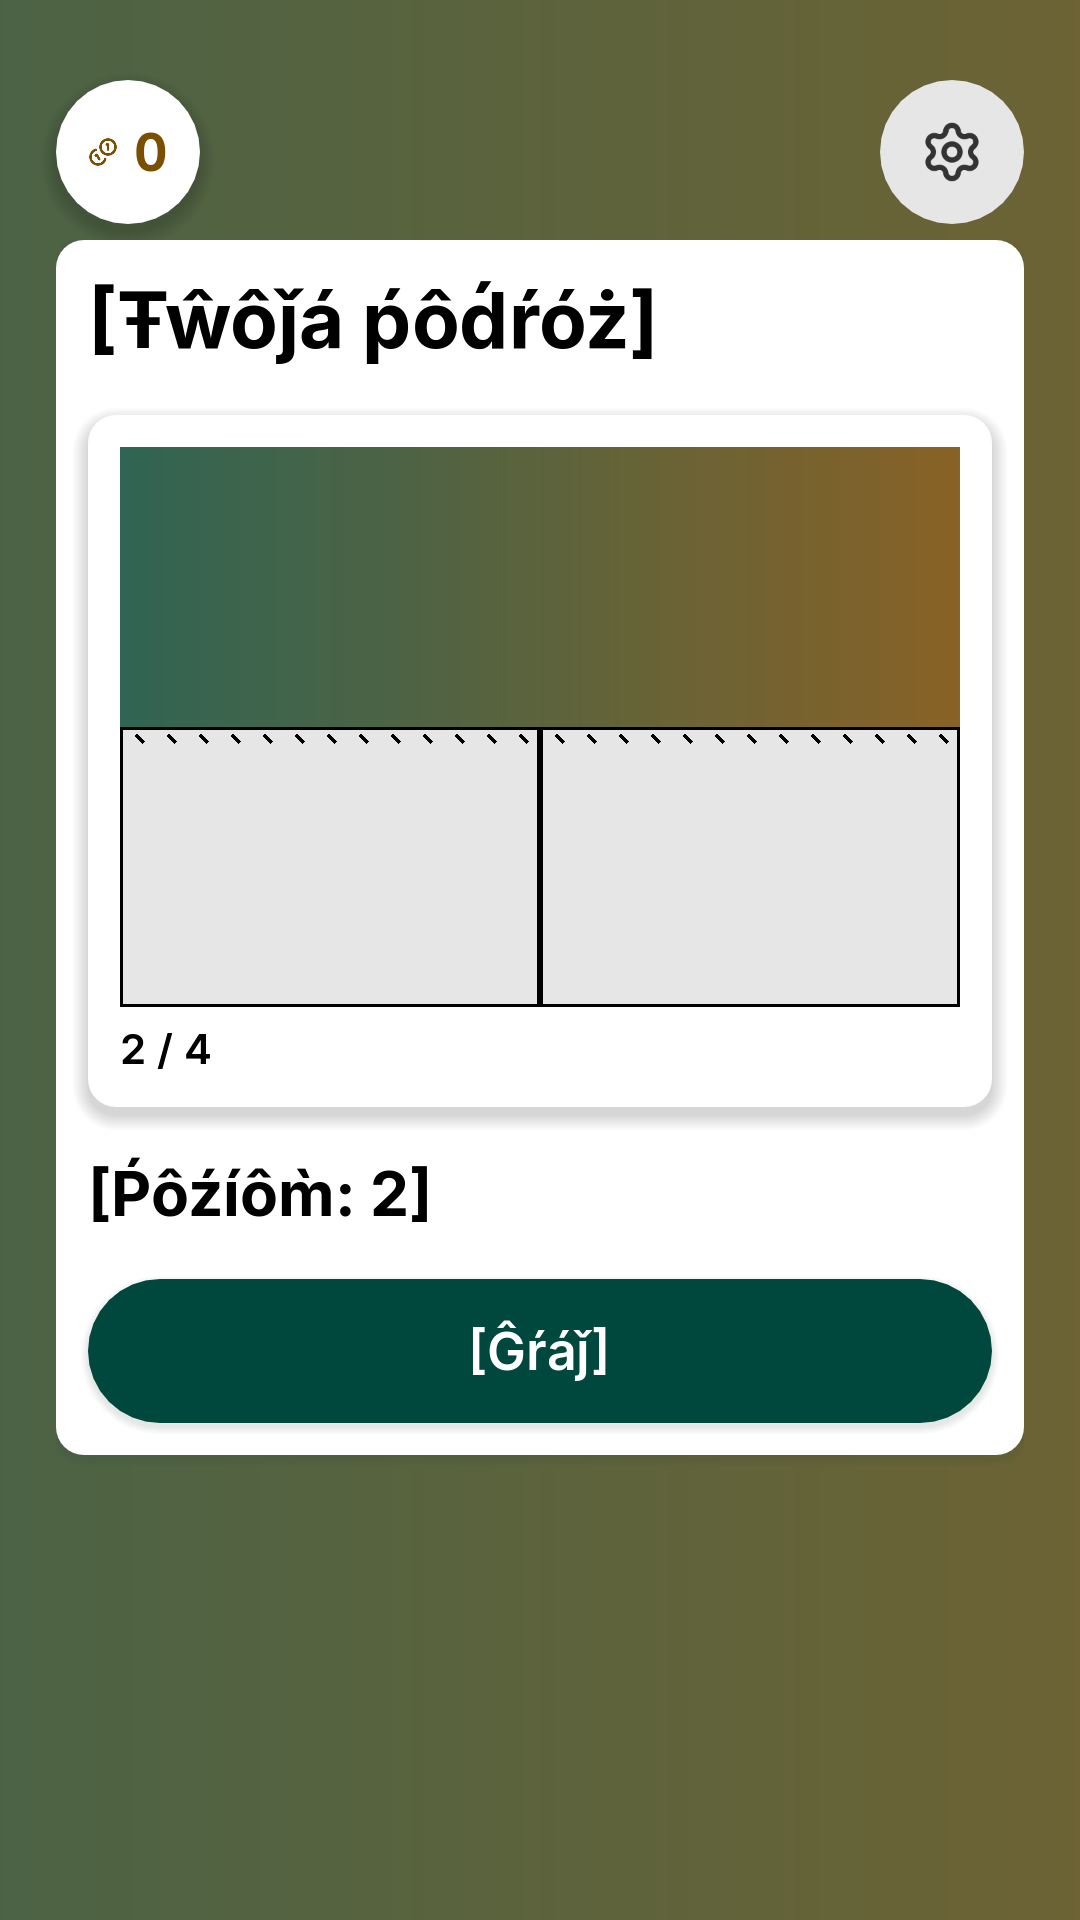
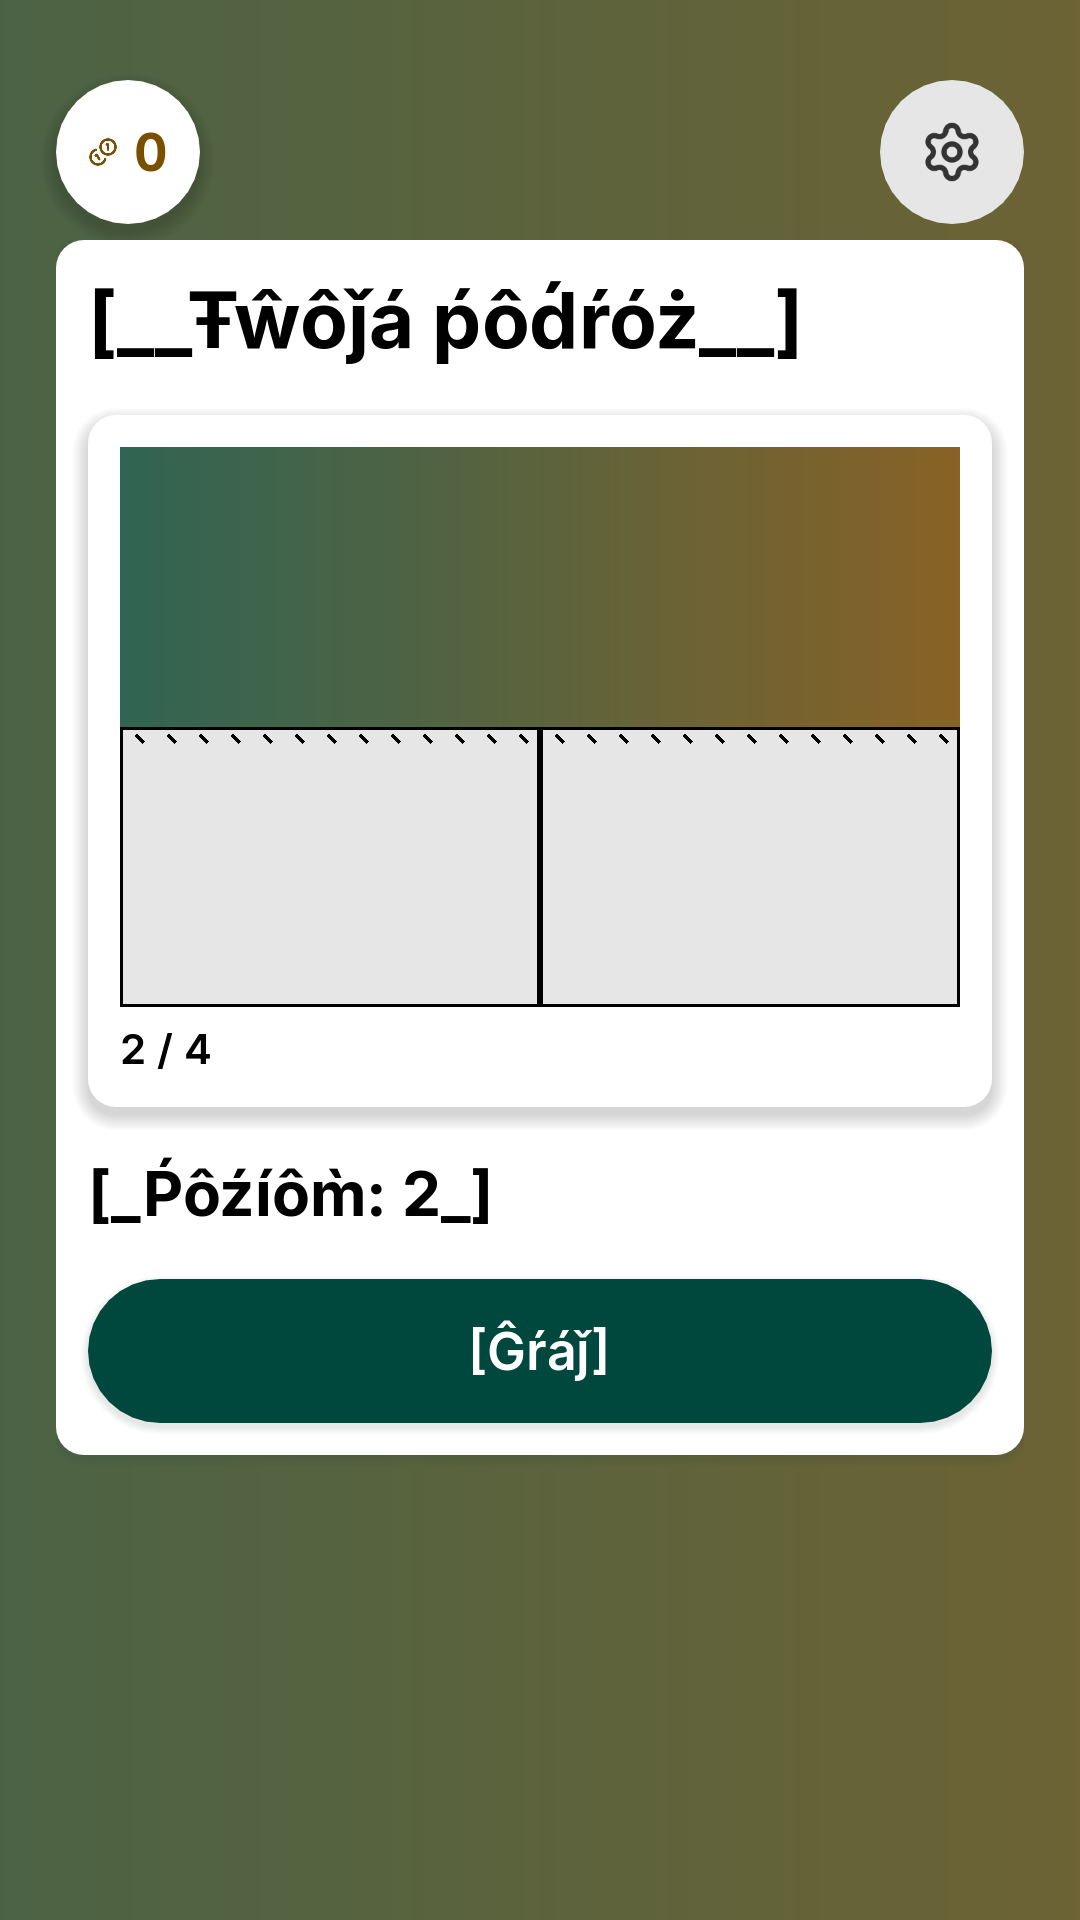
test(home): match gallery pseudolocalization stress [T-0244]

Changed region(s): [[0.0917, 0.125, 0.7639, 0.1875], [0.0917, 0.5938, 0.4583, 0.6562]]

diff --git a/docs/qa/T-0244/README.md b/docs/qa/T-0244/README.md
@@ -28,7 +28,7 @@ Task lint: 180 tasks. Scope, independent exact-head review and CI results are re
 an isolated Godot project as res://capture244.gd. Run the engine with --path <isolated-game>
 --display-driver x11 --rendering-method gl_compatibility --audio-driver Dummy -s res://capture244.gd.
 The script writes only its own user:// capture save and these review PNGs. Fake safe insets are
-24/48 viewport pixels on each side. PL/PSEUDO uses current engine expansion; default100/HC130
+24/48 viewport pixels on each side. PL/PSEUDO uses GalleryShell.OPTIONS (35% expansion, accents, no doubled vowels); default100/HC130
 uses the shipped generated themes. Images are settled static UI, with no device certification claim.
 
 | Capture | View |
